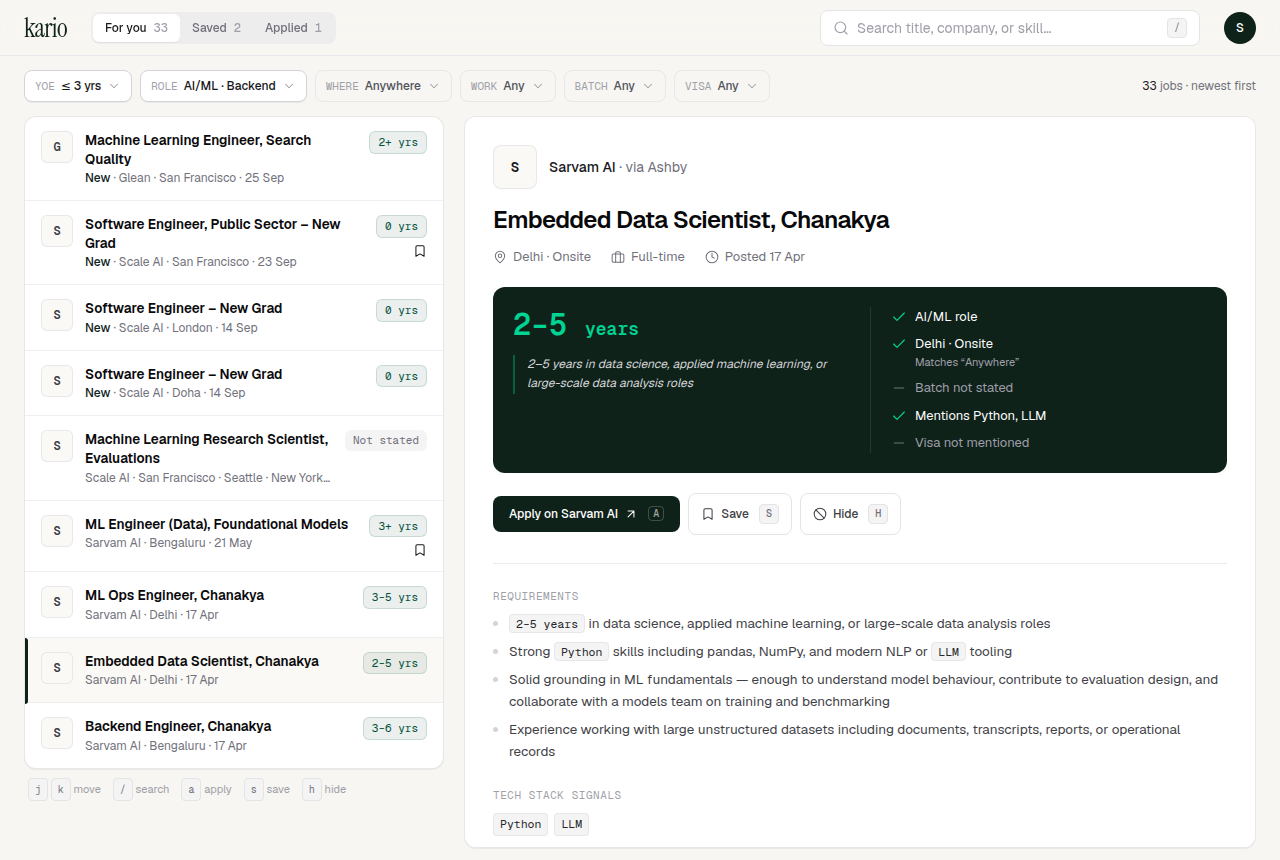
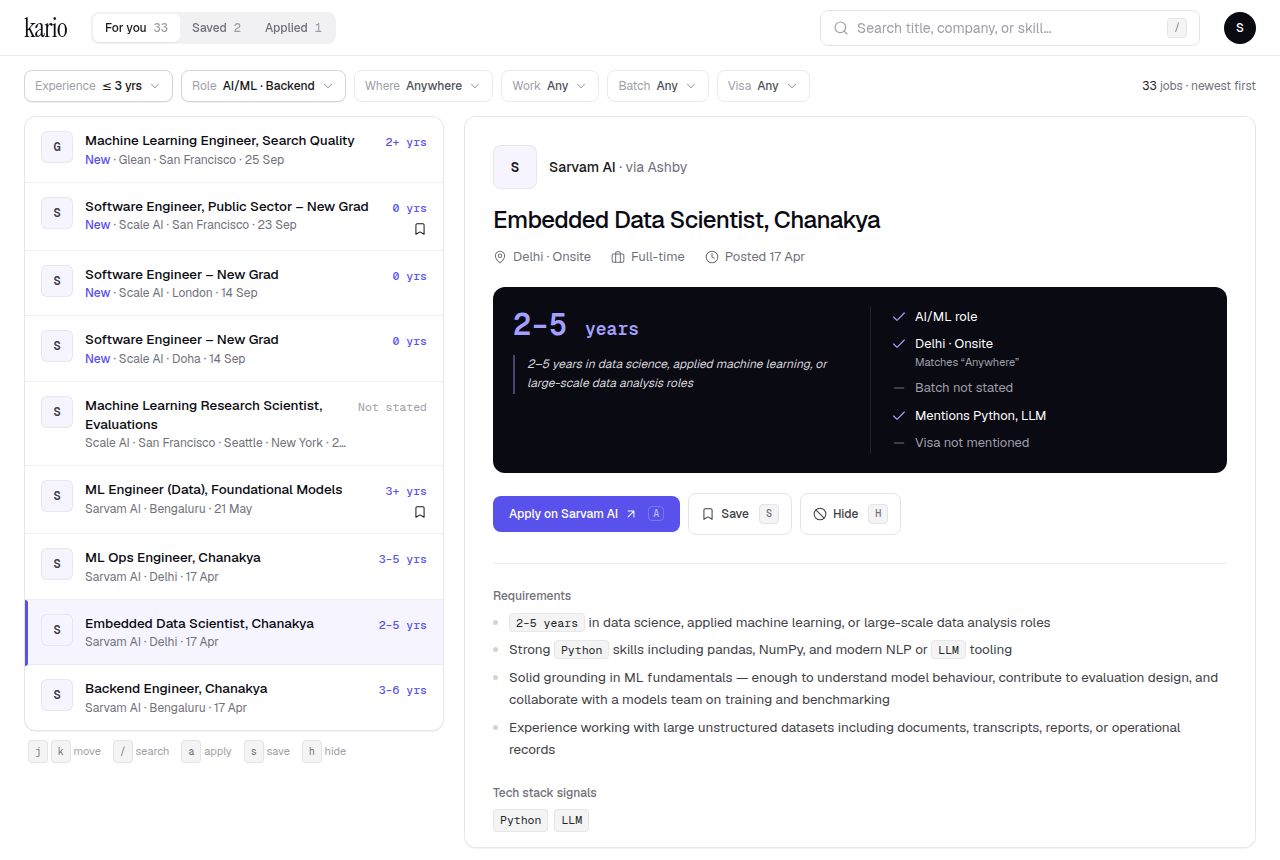
docs: workspace prototype in white + Stripe-like purple, sentence-case labels, lighter titles
Claude-Session: https://claude.ai/code/session_01WfKH82cT1U25krviRSmUEw

diff --git a/docs/wireframes/workspace.html b/docs/wireframes/workspace.html
@@ -1,6 +1,7 @@
 <!doctype html>
 <!-- Kario job list, high-fidelity prototype (M4.5/M4.6 bridge). Shrey's spec, 2026-10-17:
-     split-pane master-detail workspace on an alabaster canvas with a forest-obsidian accent.
+     split-pane master-detail workspace: white canvas, near-black text, one Stripe-like purple accent
+     (#5851EC, a shade darker than Stripe's #635BFF so small text passes WCAG AA).
      Static HTML + Tailwind (browser build) so it can be reviewed before the Next.js scaffold; the
      port will use motion/react (layoutId) where this uses one CSS-transformed indicator bar.
      All job content is real (data/local.db snapshot, 2026-10-06), built by a script; nothing is
@@ -19,10 +20,12 @@
     --font-sans: "Geist", ui-sans-serif, system-ui, sans-serif;
     --font-mono: "Geist Mono", ui-monospace, monospace;
     --font-serif: "Instrument Serif", ui-serif, Georgia, serif;
-    --color-canvas: #F7F6F2;
-    --color-forest: #0F221A;
-    --color-forest-hover: #163025;
-    --color-row-active: #FAF9F5;
+    --color-canvas: #FFFFFF;
+    --color-forest: #5851EC;
+    --color-forest-hover: #4A42D9;
+    --color-ink: #0A0A12;
+    --color-tint: #A5A0FF;
+    --color-row-active: #F6F5FF;
     --ease-out-soft: cubic-bezier(.2, .8, .2, 1);
   }
   body { @apply bg-canvas text-zinc-900 font-sans antialiased; }
@@ -52,7 +55,7 @@
 
 <header class="sticky top-0 z-30 h-14 border-b border-zinc-200/80 bg-canvas/90 backdrop-blur-md">
   <div class="mx-auto flex h-full max-w-[1280px] items-center gap-4 px-4 lg:gap-6 lg:px-6">
-    <span class="font-serif text-[26px] leading-none tracking-tight text-forest">kario</span>
+    <span class="font-serif text-[26px] leading-none tracking-tight text-ink">kario</span>
     <nav class="hidden items-center rounded-lg bg-zinc-200/50 p-0.5 md:flex" aria-label="Views">
       <a class="rounded-md bg-white px-3 py-1.5 text-xs font-medium text-zinc-900 shadow-2xs" aria-current="page">For you <span class="ml-1 font-mono tabular-nums text-zinc-400">33</span></a>
       <a class="rounded-md px-3 py-1.5 text-xs font-medium text-zinc-500">Saved <span id="saved-count" class="ml-1 font-mono tabular-nums text-zinc-400">2</span></a>
@@ -63,7 +66,7 @@
       <input id="search" class="w-full bg-transparent text-zinc-900 outline-none placeholder:text-zinc-400" placeholder="Search title, company, or skill…">
       <kbd class="kbd hidden sm:inline">/</kbd>
     </label>
-    <span class="grid size-8 shrink-0 place-items-center rounded-full bg-forest text-xs font-medium text-white">S</span>
+    <span class="grid size-8 shrink-0 place-items-center rounded-full bg-ink text-xs font-medium text-white">S</span>
   </div>
 </header>
 
@@ -105,16 +108,16 @@ let saved = new Set([JOBS[1].id, JOBS[5].id]), hidden = new Set(), active = 5;
 const visible = () => JOBS.filter(j => !hidden.has(j.id));
 
 // Filter chips: key in mono, value in medium weight. Active ones are darker.
-$("#filters").innerHTML = [["YOE", "≤ 3 yrs", 1], ["Role", "AI/ML · Backend", 1], ["Where", "Anywhere"], ["Work", "Any"], ["Batch", "Any"], ["Visa", "Any"]]
+$("#filters").innerHTML = [["Experience", "≤ 3 yrs", 1], ["Role", "AI/ML · Backend", 1], ["Where", "Anywhere"], ["Work", "Any"], ["Batch", "Any"], ["Visa", "Any"]]
   .map(([k, v, on]) => `<button class="inline-flex h-8 shrink-0 items-center gap-1.5 rounded-lg border px-2.5 ${on ? "border-zinc-300 bg-white shadow-2xs" : "border-zinc-200/80 bg-transparent"}">
-    <span class="font-mono text-[11px] uppercase text-zinc-400">${k}</span><span class="text-xs font-medium ${on ? "text-zinc-900" : "text-zinc-600"}">${v}</span>${ic("chev", "!size-3.5 text-zinc-400")}</button>`).join("")
+    <span class="text-xs text-zinc-400">${k}</span><span class="text-xs font-medium ${on ? "text-zinc-900" : "text-zinc-600"}">${v}</span>${ic("chev", "!size-3.5 text-zinc-400")}</button>`).join("")
   + `<span class="ml-auto hidden shrink-0 text-xs text-zinc-500 sm:inline"><span class="font-mono tabular-nums text-zinc-900">33</span> jobs · newest first</span>`;
 
 function badge(j) {
   const y = label(j);
   return y == null
-    ? `<span class="shrink-0 rounded-md bg-zinc-100 px-2 py-0.5 font-mono text-[11px] text-zinc-500">Not stated</span>`
-    : `<span class="shrink-0 rounded-md border border-emerald-800/15 bg-emerald-950/8 px-2 py-0.5 font-mono text-[11px] tabular-nums text-emerald-900">${y} yrs</span>`;
+    ? `<span class="shrink-0 pt-0.5 font-mono text-[11.5px] text-zinc-400">Not stated</span>`
+    : `<span class="shrink-0 pt-0.5 font-mono text-[11.5px] font-medium tabular-nums text-forest">${y} yrs</span>`;
 }
 
 function renderList() {
@@ -123,7 +126,7 @@ function renderList() {
       role="option" aria-selected="${i === active}" data-i="${i}">
     <span class="grid size-8 shrink-0 place-items-center rounded-md border border-zinc-200/80 bg-row-active font-mono text-xs font-semibold text-zinc-700">${esc(j.company[0])}</span>
     <div class="min-w-0 flex-1">
-      <div class="line-clamp-2 text-[13.5px] font-semibold leading-snug text-zinc-950">${esc(j.title)}</div>
+      <div class="line-clamp-2 text-[13.5px] font-medium leading-snug text-ink">${esc(j.title)}</div>
       <div class="mt-0.5 truncate text-xs text-zinc-500">${j.posted > LAST_VISIT ? '<span class="font-medium text-forest">New</span> · ' : ""}${esc(j.company)} · ${esc(j.where)} · ${day(j.posted)}</div>
     </div>
     <div class="flex flex-col items-end gap-1.5">${badge(j)}${saved.has(j.id) ? ic("mark", "!size-3.5 fill-zinc-900 text-zinc-900") : ""}</div>
@@ -147,7 +150,7 @@ function highlight(text, j) {
 
 function fitRow(ok, text, note = "") {
   return `<li class="flex items-start gap-2 text-[13px] ${ok ? "text-white" : "text-zinc-400"}">
-    ${ic(ok ? "check" : "minus", `!size-4 mt-0.5 ${ok ? "text-emerald-400" : "text-zinc-500"}`)}
+    ${ic(ok ? "check" : "minus", `!size-4 mt-0.5 ${ok ? "text-tint" : "text-zinc-500"}`)}
     <span>${text}${note ? `<span class="block text-[11px] text-zinc-400">${note}</span>` : ""}</span></li>`;
 }
 
@@ -156,7 +159,7 @@ function renderInspector() {
   if (!j) { $("#inspector").innerHTML = ""; return; }
   const y = label(j), ats = ATS[j.source] ?? j.source;
   const big = y == null ? `<div class="font-mono text-3xl font-semibold text-zinc-400">—</div><p class="mt-1 text-xs text-zinc-400">The posting doesn't state years of experience.</p>`
-    : `<div class="font-mono text-3xl font-semibold tabular-nums text-emerald-400">${y} <span class="text-lg">years</span></div>`;
+    : `<div class="font-mono text-3xl font-semibold tabular-nums text-tint">${y} <span class="text-lg">years</span></div>`;
   const quote = j.evidence ?? (newGrad(j) ? `“New Grad” in the title` : null);
   $("#inspector").innerHTML = `
     <button id="back" class="mb-4 inline-flex items-center gap-1 text-sm text-zinc-500 lg:hidden">${ic("back")}Jobs</button>
@@ -164,17 +167,17 @@ function renderInspector() {
       <span class="grid size-11 place-items-center rounded-lg border border-zinc-200/80 bg-row-active font-mono text-sm font-semibold">${esc(j.company[0])}</span>
       <div class="text-sm text-zinc-500"><span class="font-medium text-zinc-900">${esc(j.company)}</span> · via ${ats}</div>
     </div>
-    <h1 class="mt-4 text-2xl font-semibold leading-tight tracking-tight text-zinc-950">${esc(j.title)}</h1>
+    <h1 class="mt-4 text-2xl font-medium leading-tight tracking-tight text-ink">${esc(j.title)}</h1>
     <div class="mt-3 flex flex-wrap gap-x-5 gap-y-1.5 text-[13px] text-zinc-500">
       <span class="inline-flex items-center gap-1.5">${ic("pin", "!size-3.5")}${esc(j.where)}${j.workplace ? ` · ${j.workplace[0].toUpperCase() + j.workplace.slice(1)}` : ""}</span>
       ${j.employment ? `<span class="inline-flex items-center gap-1.5">${ic("case", "!size-3.5")}${j.employment.replace("FullTime", "Full-time")}</span>` : ""}
       <span class="inline-flex items-center gap-1.5">${ic("clock", "!size-3.5")}Posted ${day(j.posted)}</span>
     </div>
 
-    <div class="mt-5 grid gap-5 rounded-xl bg-forest p-5 text-white sm:grid-cols-[1fr_1fr]">
+    <div class="mt-5 grid gap-5 rounded-xl bg-ink p-5 text-white sm:grid-cols-[1fr_1fr]">
       <div>
         ${big}
-        ${quote ? `<blockquote class="mt-3 border-l-2 border-emerald-500/40 pl-3 text-xs italic leading-relaxed text-zinc-300">${esc(quote)}</blockquote>` : ""}
+        ${quote ? `<blockquote class="mt-3 border-l-2 border-tint/40 pl-3 text-xs italic leading-relaxed text-zinc-300">${esc(quote)}</blockquote>` : ""}
       </div>
       <ul class="space-y-2 sm:border-l sm:border-white/10 sm:pl-5">
         ${fitRow(true, `${FAMILY[j.family] ?? j.family} role`)}
@@ -193,14 +196,14 @@ function renderInspector() {
     </div>
 
     <div class="mt-7 space-y-6 border-t border-zinc-200/70 pt-6 text-[13.5px] leading-relaxed text-zinc-700">
-      ${j.req.length ? `<section><h2 class="mb-2 font-mono text-[11px] uppercase tracking-wider text-zinc-400">Requirements</h2>
+      ${j.req.length ? `<section><h2 class="mb-2 text-xs font-medium text-zinc-500">Requirements</h2>
         <ul class="list-disc space-y-1.5 pl-4 marker:text-zinc-300">${j.req.map(r => `<li>${highlight(r, j)}</li>`).join("")}</ul></section>` : ""}
-      ${j.tech.length ? `<section><h2 class="mb-2 font-mono text-[11px] uppercase tracking-wider text-zinc-400">Tech stack signals</h2>
+      ${j.tech.length ? `<section><h2 class="mb-2 text-xs font-medium text-zinc-500">Tech stack signals</h2>
         <div class="flex flex-wrap gap-1.5">${j.tech.map(t => `<code class="kw">${t}</code>`).join("")}</div></section>` : ""}
-      ${j.do.length ? `<section><h2 class="mb-2 font-mono text-[11px] uppercase tracking-wider text-zinc-400">Responsibilities</h2>
+      ${j.do.length ? `<section><h2 class="mb-2 text-xs font-medium text-zinc-500">Responsibilities</h2>
         <ul class="list-disc space-y-1.5 pl-4 marker:text-zinc-300">${j.do.map(r => `<li>${highlight(r, j)}</li>`).join("")}</ul></section>` : ""}
       <section class="rounded-lg border border-zinc-200/80 bg-row-active p-3.5">
-        <h2 class="mb-2 inline-flex items-center gap-1.5 font-mono text-[11px] uppercase tracking-wider text-zinc-400">${ic("db", "!size-3.5")}Source</h2>
+        <h2 class="mb-2 inline-flex items-center gap-1.5 text-xs font-medium text-zinc-500">${ic("db", "!size-3.5")}Source</h2>
         <dl class="grid grid-cols-[90px_1fr] gap-y-1 font-mono text-[11.5px]">
           <dt class="text-zinc-400">ATS</dt><dd class="text-zinc-800">${ats}</dd>
           <dt class="text-zinc-400">Job ID</dt><dd class="truncate text-zinc-800">${esc(j.id.split(":").pop())}</dd>

diff --git a/docs/decisions.md b/docs/decisions.md
@@ -4,7 +4,7 @@ Newest first. Each entry: date, options considered, choice, why.
 
 ---
 
-## 2026-10-17 — Visual direction: alabaster + forest workspace (M4.5)
+## 2026-10-17 — Visual direction: split-pane workspace, white + purple (M4.5)
 - **Options shown:** the split view in three styles (Midnight dark/lime, Paper light/mono, Bold
   warm/orange).
 - **Choice (Shrey, his own spec):**
@@ -28,6 +28,16 @@ Newest first. Each entry: date, options considered, choice, why.
     not stated", "Visa not mentioned"), never a tick.
   - Tech terms are only those named in the posting.
   - There are no match percentages.
+- **Revision, same day (Shrey):**
+  - Palette is now a white background, near-black text `#0A0A12`, and one Stripe-like purple
+    accent. It replaces the alabaster and forest.
+  - The purple is `#5851EC`, a shade darker than Stripe's `#635BFF`. `#635BFF` only reaches
+    4.3:1 on the selected-row tint; `#5851EC` reaches 5.1:1 or better, which passes WCAG AA.
+  - The fit card is near-black with a light-purple accent `#A5A0FF` (8.5:1).
+  - All labels are in sentence case ("Experience", "Requirements"), not capitals.
+  - Job titles are medium weight, not semibold.
+  - Years in the list are plain coloured text, without a box.
+  - The accent is solid colour only; `CLAUDE.md` bans purple gradients.
 - **Prototype:** `docs/wireframes/workspace.html`. Static HTML with Tailwind's browser build; the
   Next.js port (M4.6) uses `motion/react` `layoutId` for the row bar.
 - **Open:** `CLAUDE.md` allows at most two font families. This uses Geist and Geist Mono, plus
